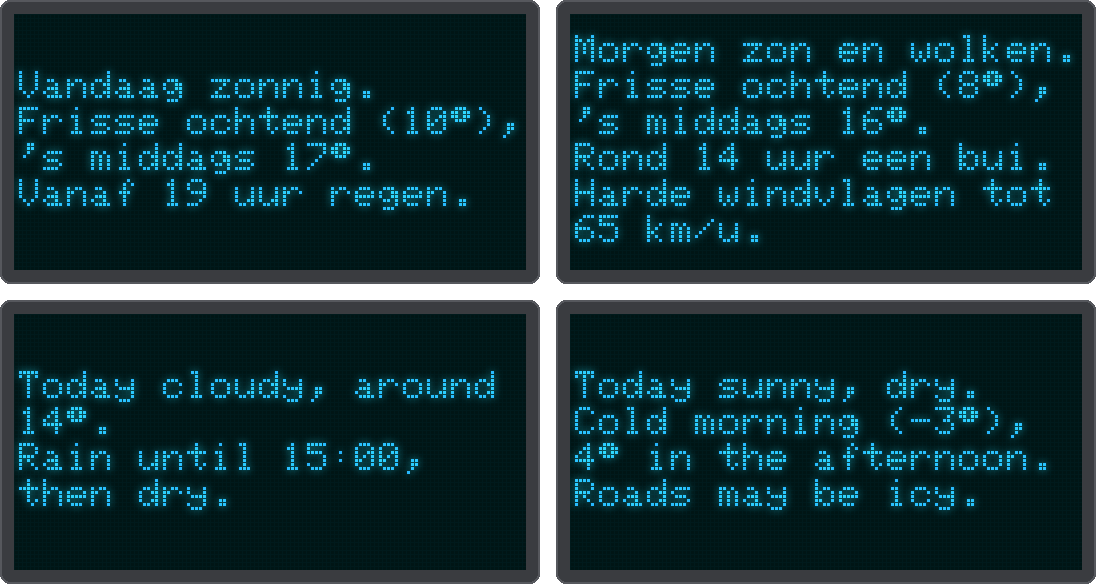
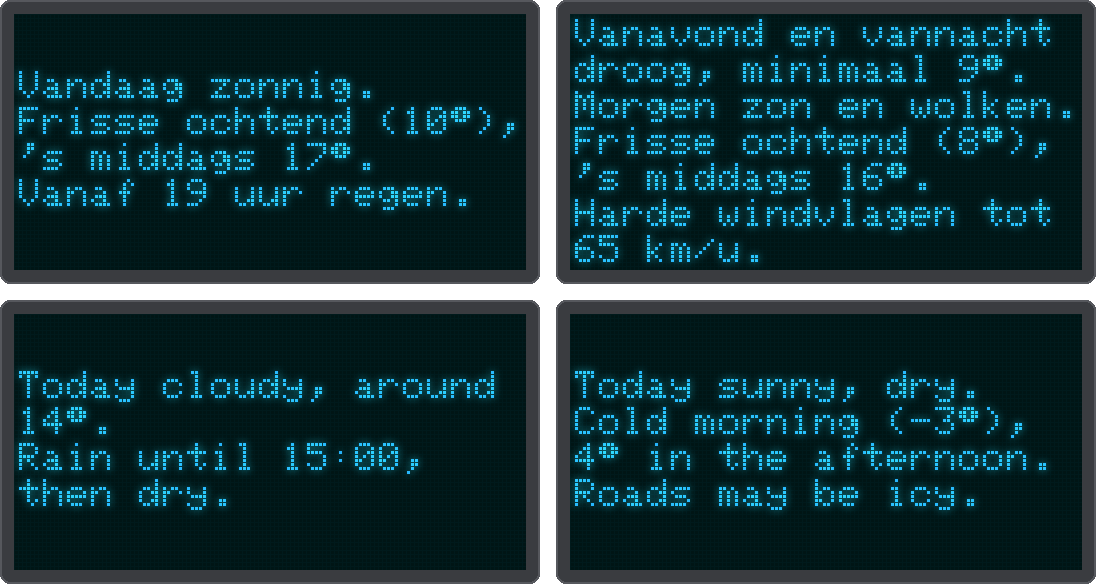
Weather report: the evening and the night from 18:00
From 18:00 the report starts with one sentence about the evening and the
night (their rain and the lowest temperature until 07:00), for example
"Vanavond regen, vannacht droog, minimaal 3°.", and then goes on with
tomorrow. From 22:00 it starts with the night.

Sentences now have a priority: when the report does not fit on the
screen, fitReport() leaves out the change and the fresh morning first,
then the warning; the day and the night stay. A frost warning after the
night sentence is just "Kans op gladheid.", since the night sentence
already gives the temperature below zero.

Claude-Session: https://claude.ai/code/session_015K6ocNX4K4c6roKqsVMzdi

Changed region(s): [[0.4964, 0.0308, 0.9927, 0.4623]]

diff --git a/firmware/lib/motologic/motologic.cpp b/firmware/lib/motologic/motologic.cpp
@@ -361,7 +361,7 @@ void weatherReport(const ReportHour* hours, size_t count, int lang, WeatherRepor
     const char deg = REPORT_DEGREE;
 
     // The stretch the report is about: from now (or the next 07:00) until 22:00. From 18:00 that is tomorrow.
-    // The night hours before it only count for frost.
+    // The evening and night hours before it get a sentence of their own.
     int now = hours[0].hour;
     bool tomorrow = now >= KIDS_EVENING_FROM_HR;
     size_t dayFrom = 0;
@@ -374,7 +374,36 @@ void weatherReport(const ReportHour* hours, size_t count, int lang, WeatherRepor
     }
     ReportSummary s = summarizeReport(hours, dayFrom, dayTo);
     if (s.n == 0) return;
-    ReportSummary night = summarizeReport(hours, 0, dayFrom);
+    ReportSummary night = summarizeReport(hours, 0, dayFrom);   // the evening and the night together
+    size_t eveningTo = 0;
+    while (eveningTo < dayFrom && hours[eveningTo].hour >= KIDS_EVENING_FROM_HR && hours[eveningTo].hour < KIDS_EVENING_UNTIL_HR) {
+        eveningTo++;
+    }
+    ReportSummary evening = summarizeReport(hours, 0, eveningTo);
+    ReportSummary late = summarizeReport(hours, eveningTo, dayFrom);   // 22:00 to 07:00
+    char (*line)[REPORT_SENTENCE_LEN] = out.sentences;
+    auto add = [&](int priority) { out.priority[out.count++] = (uint8_t)priority; };
+
+    // 0. This evening and tonight: the rain, and the lowest temperature
+    if (night.n) {
+        int lowest = roundTemp(night.tmin);
+        const char* ev = evening.n ? w[precipWord(evening)] : nullptr;
+        const char* ng = late.n ? w[precipWord(late)] : nullptr;
+        char* t = line[out.count];
+        if (ev && ng && strcmp(ev, ng) == 0) {
+            if (nl) snprintf(t, REPORT_SENTENCE_LEN, "Vanavond en vannacht %s, minimaal %d%c.", ev, lowest, deg);
+            else snprintf(t, REPORT_SENTENCE_LEN, "%s this evening and tonight, low %d%c.", ev, lowest, deg);
+        } else if (ev && ng) {
+            if (nl) snprintf(t, REPORT_SENTENCE_LEN, "Vanavond %s, vannacht %s, minimaal %d%c.", ev, ng, lowest, deg);
+            else snprintf(t, REPORT_SENTENCE_LEN, "%s this evening, %s tonight, low %d%c.", ev, ng, lowest, deg);
+        } else {
+            const char* what = ev ? ev : ng;
+            if (nl) snprintf(t, REPORT_SENTENCE_LEN, "%s %s, minimaal %d%c.", ev ? "Vanavond" : "Vannacht", what, lowest, deg);
+            else snprintf(t, REPORT_SENTENCE_LEN, "%s %s, low %d%c.", what, ev ? "this evening" : "tonight", lowest, deg);
+        }
+        if (t[0] >= 'a' && t[0] <= 'z') t[0] -= 'a' - 'A';
+        add(3);
+    }
 
     // A change during the day (rain that starts later, or stops): then the first sentence names only the sky
     char change[REPORT_SENTENCE_LEN] = "";
@@ -412,37 +441,43 @@ void weatherReport(const ReportHour* hours, size_t count, int lang, WeatherRepor
     else snprintf(weather, sizeof(weather), "%s, %s", w[sky], w[pre]);
     const char* when = w[tomorrow ? W_TOMORROW : W_TODAY];
     int lo = roundTemp(s.tmin), hi = roundTemp(s.tmax);
-    char (*line)[REPORT_SENTENCE_LEN] = out.sentences;
     bool freshMorning = s.morningMin < 999 && s.afternoonMax > -999 && s.afternoonMax - s.morningMin >= 5;
     if (freshMorning) {
         int am = roundTemp(s.morningMin), pm = roundTemp(s.afternoonMax);
         const char* morning = w[am <= 0 ? W_COLD : am < 12 ? W_CHILLY : W_COOL];
-        snprintf(line[out.count++], REPORT_SENTENCE_LEN, "%s %s.", when, weather);
-        if (nl) snprintf(line[out.count++], REPORT_SENTENCE_LEN, "%s ochtend (%d%c), 's middags %d%c.", morning, am, deg, pm, deg);
-        else snprintf(line[out.count++], REPORT_SENTENCE_LEN, "%s morning (%d%c), %d%c in the afternoon.", morning, am, deg, pm, deg);
+        snprintf(line[out.count], REPORT_SENTENCE_LEN, "%s %s.", when, weather);
+        add(4);
+        if (nl) snprintf(line[out.count], REPORT_SENTENCE_LEN, "%s ochtend (%d%c), 's middags %d%c.", morning, am, deg, pm, deg);
+        else snprintf(line[out.count], REPORT_SENTENCE_LEN, "%s morning (%d%c), %d%c in the afternoon.", morning, am, deg, pm, deg);
+        add(1);
     } else if (hi - lo <= 2) {
-        snprintf(line[out.count++], REPORT_SENTENCE_LEN, nl ? "%s %s, rond %d%c." : "%s %s, around %d%c.", when, weather, hi, deg);
+        snprintf(line[out.count], REPORT_SENTENCE_LEN, nl ? "%s %s, rond %d%c." : "%s %s, around %d%c.", when, weather, hi, deg);
+        add(4);
     } else {
-        snprintf(line[out.count++], REPORT_SENTENCE_LEN, nl ? "%s %s, %d tot %d%c." : "%s %s, %d to %d%c.", when, weather, lo, hi, deg);
+        snprintf(line[out.count], REPORT_SENTENCE_LEN, nl ? "%s %s, %d tot %d%c." : "%s %s, %d to %d%c.", when, weather, lo, hi, deg);
+        add(4);
     }
 
     // 2. The change
-    if (change[0]) snprintf(line[out.count++], REPORT_SENTENCE_LEN, "%s", change);
+    if (change[0]) {
+        snprintf(line[out.count], REPORT_SENTENCE_LEN, "%s", change);
+        add(1);
+    }
 
     // 3. One thing to watch out for
     char* watch = line[out.count];
-    if (night.n && night.tmin <= 0) snprintf(watch, REPORT_SENTENCE_LEN, nl ? "Vannacht vorst, kans op gladheid." : "Frost tonight, roads may be icy.");
-    else if (s.tmin <= 0) snprintf(watch, REPORT_SENTENCE_LEN, nl ? "Kans op gladheid." : "Roads may be icy.");
+    // (frost tonight: the first sentence already gives the temperature below zero)
+    if (s.tmin <= 0 || (night.n && night.tmin <= 0)) snprintf(watch, REPORT_SENTENCE_LEN, nl ? "Kans op gladheid." : "Roads may be icy.");
     else if (s.gustMax >= 60) snprintf(watch, REPORT_SENTENCE_LEN, nl ? "Harde windvlagen tot %d km/u." : "Strong gusts up to %d km/h.", roundTemp(s.gustMax));
     else if (s.rainSum >= 10 && pre == W_HEAVY_RAIN && !change[0])   // the first sentence already says it
         snprintf(watch, REPORT_SENTENCE_LEN, nl ? "In totaal %d mm." : "%d mm in total.", roundTemp(s.rainSum));
     else if (s.rainSum >= 10) snprintf(watch, REPORT_SENTENCE_LEN, nl ? "Veel regen: %d mm." : "Lots of rain: %d mm.", roundTemp(s.rainSum));
     else if (s.gustMax >= 45) snprintf(watch, REPORT_SENTENCE_LEN, nl ? "Stevige wind." : "Quite windy.");
     else watch = nullptr;
-    if (watch) out.count++;
+    if (watch) add(2);
 }
 
-size_t wrapReport(const WeatherReport& r, size_t sentences, char (*lines)[REPORT_COLS + 1], size_t maxLines) {
+size_t wrapReport(const WeatherReport& r, unsigned keep, char (*lines)[REPORT_COLS + 1], size_t maxLines) {
     size_t n = 0, len = 0;
     char line[REPORT_COLS + 1];
     auto flush = [&]() {
@@ -451,7 +486,8 @@ size_t wrapReport(const WeatherReport& r, size_t sentences, char (*lines)[REPORT
         n++;
         len = 0;
     };
-    for (size_t k = 0; k < sentences && k < r.count; k++) {
+    for (size_t k = 0; k < r.count; k++) {
+        if (!(keep & (1u << k))) continue;
         const char* p = r.sentences[k];
         while (*p) {
             while (*p == ' ') p++;
@@ -472,6 +508,20 @@ size_t wrapReport(const WeatherReport& r, size_t sentences, char (*lines)[REPORT
         if (len > 0) flush();   // every sentence starts on a new line
     }
     return n;
+}
+
+size_t fitReport(const WeatherReport& r, char (*lines)[REPORT_COLS + 1], size_t maxLines) {
+    unsigned keep = (1u << r.count) - 1;
+    size_t used;
+    while ((used = wrapReport(r, keep, lines, maxLines)) > maxLines) {
+        int drop = -1;
+        for (size_t k = 0; k < r.count; k++) {
+            if ((keep & (1u << k)) && (drop < 0 || r.priority[k] <= r.priority[drop])) drop = (int)k;
+        }
+        if (drop < 0 || (keep & (keep - 1)) == 0) break;   // one sentence left: show what fits
+        keep &= ~(1u << drop);
+    }
+    return used < maxLines ? used : maxLines;
 }
 
 static const char* const SCREEN_NAMES[SCREEN_COUNT] = {

diff --git a/test/test_logic/test_logic.cpp b/test/test_logic/test_logic.cpp
@@ -678,11 +678,17 @@ void test_weather_report() {
         return rh(hr, t, 0, gust, 20, 2);
     });
     weatherReport(h, n, REPORT_LANG_NL, r);
-    assertReport(r, { "Morgen zon en wolken.", "Frisse ochtend (8\xF8), 's middags 16\xF8.", "Rond 14 uur een bui.",
-                      "Harde windvlagen tot 65 km/u." });
+    assertReport(r, { "Vanavond en vannacht droog, minimaal 9\xF8.", "Morgen zon en wolken.",
+                      "Frisse ochtend (8\xF8), 's middags 16\xF8.", "Rond 14 uur een bui.", "Harde windvlagen tot 65 km/u." });
     weatherReport(h, n, REPORT_LANG_EN, r);
-    assertReport(r, { "Tomorrow sun and clouds.", "Chilly morning (8\xF8), 16\xF8 in the afternoon.", "A shower around 14:00.",
-                      "Strong gusts up to 65 km/h." });
+    assertReport(r, { "Dry this evening and tonight, low 9\xF8.", "Tomorrow sun and clouds.",
+                      "Chilly morning (8\xF8), 16\xF8 in the afternoon.", "A shower around 14:00.", "Strong gusts up to 65 km/h." });
+    // Too long for the screen (11 lines): the shower and the fresh morning go first, the warning stays
+    char lines[7][REPORT_COLS + 1];
+    TEST_ASSERT_EQUAL(6, fitReport(r, lines, 7));
+    TEST_ASSERT_EQUAL_STRING("Dry this evening and", lines[0]);
+    TEST_ASSERT_EQUAL_STRING("Tomorrow sun and", lines[2]);
+    TEST_ASSERT_EQUAL_STRING("Strong gusts up to 65", lines[4]);
 
     // E: 13:00, hot, thunder around 17:00
     n = reportDay(h, 13, 24, [](int hr) {
@@ -706,13 +712,26 @@ void test_weather_report() {
         return rh(hr, 6, 1.0f, 20, 90, 61);
     });
     weatherReport(h, n, REPORT_LANG_NL, r);
-    assertReport(r, { "Morgen veel regen, rond 6\xF8.", "Vannacht vorst, kans op gladheid." });
+    assertReport(r, { "Vanavond soms een bui, vannacht droog, minimaal -2\xF8.", "Morgen veel regen, rond 6\xF8.",
+                      "Kans op gladheid." });
     // The same day without the frost: the amount, without saying "heavy rain" twice
     for (size_t i = 0; i < n; i++) if (h[i].tempC < 0) h[i].tempC = 3;
     weatherReport(h, n, REPORT_LANG_NL, r);
-    assertReport(r, { "Morgen veel regen, rond 6\xF8.", "In totaal 15 mm." });
+    assertReport(r, { "Vanavond soms een bui, vannacht droog, minimaal 3\xF8.", "Morgen veel regen, rond 6\xF8.",
+                      "In totaal 15 mm." });
     weatherReport(h, n, REPORT_LANG_EN, r);
-    assertReport(r, { "Tomorrow heavy rain, around 6\xF8.", "15 mm in total." });
+    assertReport(r, { "A shower at times this evening, dry tonight, low 3\xF8.", "Tomorrow heavy rain, around 6\xF8.",
+                      "15 mm in total." });
+
+    // 23:00: only the night, then tomorrow
+    n = reportDay(h, 23, 24, [](int hr) {
+        if (hr >= 22 || hr < 7) return rh(hr, hr < 3 ? 5.0f : 4.0f, hr >= 2 && hr < 5 ? 0.8f : 0, 15, 70, hr >= 2 && hr < 5 ? 61 : 3);
+        return rh(hr, 9, 0, 15, 10, 3);
+    });
+    weatherReport(h, n, REPORT_LANG_NL, r);
+    assertReport(r, { "Vannacht buien, minimaal 4\xF8.", "Morgen bewolkt, droog, rond 9\xF8." });
+    weatherReport(h, n, REPORT_LANG_EN, r);
+    assertReport(r, { "Showers tonight, low 4\xF8.", "Tomorrow cloudy, dry, around 9\xF8." });
 }
 
 void test_weather_report_needs_the_day() {
@@ -731,18 +750,26 @@ void test_weather_report_needs_the_day() {
 }
 
 void test_wrap_report() {
-    WeatherReport r = { 3, { "Vandaag zonnig, 22 tot 27\xF8.", "Rond 17 uur kans op onweer.", "Abcdefghijklmnopqrstuvwxyz ok" } };
+    WeatherReport r = { 3, { "Vandaag zonnig, 22 tot 27\xF8.", "Rond 17 uur kans op onweer.", "Abcdefghijklmnopqrstuvwxyz ok" },
+                        { 4, 1, 2 } };
     char lines[8][REPORT_COLS + 1];
-    TEST_ASSERT_EQUAL(6, wrapReport(r, 3, lines, 8));
+    TEST_ASSERT_EQUAL(6, wrapReport(r, 7, lines, 8));
     TEST_ASSERT_EQUAL_STRING("Vandaag zonnig, 22", lines[0]);
     TEST_ASSERT_EQUAL_STRING("tot 27\xF8.", lines[1]);
     TEST_ASSERT_EQUAL_STRING("Rond 17 uur kans op", lines[2]);   // every sentence starts on a new line
     TEST_ASSERT_EQUAL_STRING("onweer.", lines[3]);
     TEST_ASSERT_EQUAL_STRING("Abcdefghijklmnopqrstu", lines[4]);   // a word longer than a line is split
     TEST_ASSERT_EQUAL_STRING("vwxyz ok", lines[5]);
-    TEST_ASSERT_EQUAL(4, wrapReport(r, 2, lines, 8));
-    TEST_ASSERT_EQUAL(6, wrapReport(r, 3, lines, 2));               // counts the lines it could not store
+    TEST_ASSERT_EQUAL(4, wrapReport(r, 3, lines, 8));                // the first two sentences
+    TEST_ASSERT_EQUAL(6, wrapReport(r, 7, lines, 2));               // counts the lines it could not store
     TEST_ASSERT_EQUAL_STRING("tot 27\xF8.", lines[1]);
+    // Fitting in 4 lines leaves out the sentence with the lowest priority (the thunder), not the last one
+    TEST_ASSERT_EQUAL(4, fitReport(r, lines, 4));
+    TEST_ASSERT_EQUAL_STRING("tot 27\xF8.", lines[1]);
+    TEST_ASSERT_EQUAL_STRING("Abcdefghijklmnopqrstu", lines[2]);
+    // One sentence left that is still too long: as many lines as fit
+    TEST_ASSERT_EQUAL(1, fitReport(r, lines, 1));
+    TEST_ASSERT_EQUAL_STRING("Vandaag zonnig, 22", lines[0]);
 }
 
 int main(int, char**) {

diff --git a/firmware/lib/motologic/motologic.h b/firmware/lib/motologic/motologic.h
@@ -216,14 +216,15 @@ int mapWeatherCode(int code, float windKmh, float warnWindKmh);
 // Temperature trend 'u' (rising), 'd' (falling) or 'f' (flat) from now to a few hours later; NAN = flat
 char temperatureTrend(float now, float later);
 
-// Weather report: the day in 1-4 short sentences, by fixed rules (no network service). It is about the rest
-// of today until 22:00, or from 18:00 on about tomorrow 07-22. Sentences: the sky, rain and temperature
-// (a fresh morning gets its own sentence), a change during the day (a shower around an hour, rain from or
-// until an hour), and one thing to watch out for (frost, strong gusts, a lot of rain, wind).
+// Weather report: the day in 1-5 short sentences, by fixed rules (no network service). It is about the rest
+// of today until 22:00, or from 18:00 on about the evening, the night and tomorrow 07-22 (from 22:00 the night
+// and the coming day). Sentences: the evening and night (their rain and lowest temperature), the sky, rain and
+// temperature of the day (a fresh morning gets its own sentence), a change during the day (a shower around an
+// hour, rain from or until an hour), and one thing to watch out for (frost, strong gusts, a lot of rain, wind).
 #define REPORT_LANG_EN        0
 #define REPORT_LANG_NL        1
-#define REPORT_MAX_SENTENCES  4
-#define REPORT_SENTENCE_LEN   64
+#define REPORT_MAX_SENTENCES  5
+#define REPORT_SENTENCE_LEN   80
 #define REPORT_DEGREE         '\xF8'   // the degree sign in the display font (code page 437)
 
 // One forecast hour for the report
@@ -240,15 +241,20 @@ struct ReportHour {
 struct WeatherReport {
     uint8_t count;    // 0: not enough forecast hours
     char    sentences[REPORT_MAX_SENTENCES][REPORT_SENTENCE_LEN];
+    uint8_t priority[REPORT_MAX_SENTENCES];   // which to leave out first when they do not fit: the lowest
 };
 
 // hours[0] is the current hour, the next ones follow it hour by hour
 void weatherReport(const ReportHour* hours, size_t count, int lang, WeatherReport& out);
 
-// Word wrap the first `sentences` sentences of a report to lines of REPORT_COLS characters, every sentence
-// on a new line. Fills at most maxLines lines; returns how many the text needs (which may be more).
+// Word wrap the sentences in `keep` (bit 1 << i for sentence i) to lines of REPORT_COLS characters, every
+// sentence on a new line. Fills at most maxLines lines; returns how many the text needs (which may be more).
 #define REPORT_COLS 21
-size_t wrapReport(const WeatherReport& r, size_t sentences, char (*lines)[REPORT_COLS + 1], size_t maxLines);
+size_t wrapReport(const WeatherReport& r, unsigned keep, char (*lines)[REPORT_COLS + 1], size_t maxLines);
+
+// Word wrap a report to at most maxLines lines: while it does not fit, the sentence with the lowest priority
+// (the last of equals) is left out. Returns the number of lines.
+size_t fitReport(const WeatherReport& r, char (*lines)[REPORT_COLS + 1], size_t maxLines);
 
 // Screens. Every screen has a fixed name (config.json, web UI); which ones are used, and in which order, is
 // set by two slot lists: the tap list (a tap steps through it; slot 0 is the home screen) and the hold list

diff --git a/firmware/src/main.cpp b/firmware/src/main.cpp
@@ -542,8 +542,8 @@ void renderHourly() {
 
 
 /**
- * The weather report: a few sentences in the display language, word wrapped. Sentences at the end are left out
- * when they do not fit.
+ * The weather report: a few sentences in the display language, word wrapped. The least important ones are left
+ * out when they do not fit.
  */
 #define REPORT_MAX_LINES 7
 void renderReport() {
@@ -567,16 +567,15 @@ void renderReport() {
     }
 
     bool nl = displayLanguage == "nl";
-    static WeatherReport report;   // static: 260 bytes off the stack
+    static WeatherReport report;   // static: about 400 bytes off the stack
     weatherReport(hours, count, nl ? REPORT_LANG_NL : REPORT_LANG_EN, report);
     if (report.count == 0) {
         report.count = 1;
         strcpy(report.sentences[0], nl ? "Nog geen verwachting." : "No forecast yet.");
+        report.priority[0] = 4;
     }
     char lines[REPORT_MAX_LINES][REPORT_COLS + 1];
-    size_t sentences = report.count, used;
-    while ((used = wrapReport(report, sentences, lines, REPORT_MAX_LINES)) > REPORT_MAX_LINES && sentences > 1) sentences--;
-    renderReportView(display, lines, used < REPORT_MAX_LINES ? used : REPORT_MAX_LINES);
+    renderReportView(display, lines, fitReport(report, lines, REPORT_MAX_LINES));
 }
 
 

diff --git a/docs/screens.md b/docs/screens.md
@@ -53,21 +53,25 @@ The `report` screen sums up the day in a few short sentences, for the grown-ups:
 one long press away, and any other list can have it too. It is in English or Dutch, by *Language* under
 *Display* in the web UI.
 
-![Four weather reports: a sunny day with a fresh morning and rain from 19:00; tomorrow with a shower around 14:00 and strong gusts; in English, cloudy with rain until 15:00; a frosty sunny day, roads may be icy](images/report.png){ .center }
+![Four weather reports: a sunny day with a fresh morning and rain from 19:00; at 20:00, a dry evening and night, then tomorrow with a fresh morning and strong gusts; in English, cloudy with rain until 15:00; a frosty sunny day, roads may be icy](images/report.png){ .center }
 
-It is about the rest of today until 22:00; from 18:00 on it is about tomorrow, 07:00 to 22:00. The device
+During the day it is about the rest of today, until 22:00. From 18:00 on it starts with the evening and the
+night, and then goes on with tomorrow, 07:00 to 22:00; from 22:00 it starts with the night. The device
 writes it itself from the hourly forecast, by fixed rules:
 
-1. **The day:** the sky (sunny, sun and clouds, cloudy, foggy), the rain (dry, mostly dry, a shower at times,
+1. **The evening and the night** (from 18:00): their rain, and the lowest temperature until 07:00, for
+   example *Vanavond regen, vannacht droog, minimaal 3°.*
+2. **The day:** the sky (sunny, sun and clouds, cloudy, foggy), the rain (dry, mostly dry, a shower at times,
    showers, rain, heavy rain, drizzle, snow, thunderstorms) and the temperature, from lowest to highest, or
    *around* one number when it hardly changes. A morning at least 5 degrees colder than the afternoon gets
    its own sentence, with the coldest morning hour and the warmest afternoon hour.
-2. **A change:** a shower around an hour, rain from an hour on, or rain until an hour and then dry.
-3. **One thing to watch out for**, the first that applies: frost tonight or during the day (roads may be
+3. **A change:** a shower around an hour, rain from an hour on, or rain until an hour and then dry.
+4. **One thing to watch out for**, the first that applies: frost tonight or during the day (roads may be
    icy), gusts of 60 km/h or more, 10 mm of rain or more, gusts of 45 km/h or more.
 
 An hour counts as wet from 0.2 mm, as on the kids screens. The report redraws every hour and after every
-forecast update. When the sentences do not fit on the screen, the last ones are left out.
+forecast update. When the sentences do not fit on the screen (7 lines), the least important ones are left
+out first: the change and the fresh morning, then the warning; the day and the night always stay.
 
 ## In config.json
 
